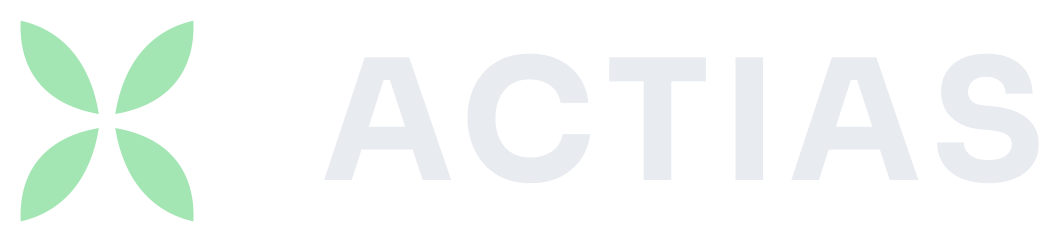
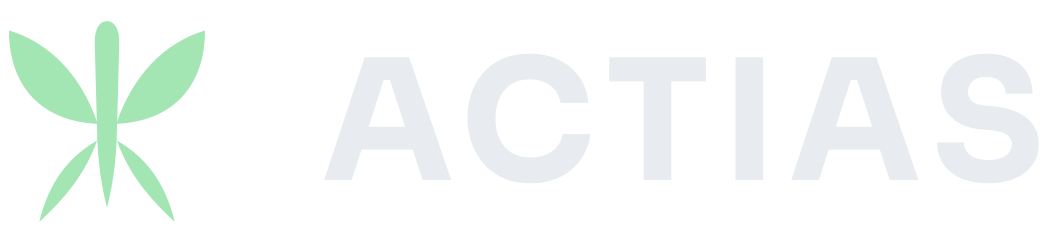
feat(web): the mark is a moth with a body
Four lobes around a centre of negative space is how a palmate leaf
is built, and in luna green it read as one. Wings hung on a body
fix the reading, and the hover beats them by data-wing name: the
old flutter selected by nth-child and outlived its own drawing.

Changed region(s): [[0.0, 0.0868, 0.2181, 0.9256]]

diff --git a/actias-web/src/ui/Mark.tsx b/actias-web/src/ui/Mark.tsx
@@ -1,21 +1,129 @@
 /**
- * The Actias mark: the luna moth reduced to its four wing lobes around a
- * cross of night, drawn as solid leaf-petals. One drawing at every size;
- * solid masses keep it legible where the old line glyph clogged.
+ * The Actias mark: a luna moth in flight posture, forewings swept up and
+ * out, hindwings drawn down into the trailing streamers the species is
+ * known for, all hung on a body.
+ *
+ * The body is the load-bearing part. The previous drawing was four lobes
+ * radiating from a centre of negative space, which is how a palmate leaf
+ * is built rather than an insect, and in luna green it read as cannabis
+ * before it read as a moth. Wings meeting a body instead of each other
+ * settles that, and the top-heavy mass (broad forewings, narrow tails)
+ * is a silhouette no leaf has.
  */
-export function Mark({ size = 20 }: { size?: number }) {
+export function Mark({
+  size = 20,
+  className,
+}: {
+  size?: number;
+  className?: string;
+}) {
   return (
     <svg
       width={size}
       height={size}
       viewBox="0 0 24 24"
       fill="var(--luna)"
+      className={className}
       aria-label="Actias"
     >
-      <path d="M11.3 11.4 C 10.6 7.0 8.2 4.2 4.6 3.4 C 4.4 7.6 6.6 10.6 11.3 11.4 Z" />
-      <path d="M12.7 11.4 C 13.4 7.0 15.8 4.2 19.4 3.4 C 19.6 7.6 17.4 10.6 12.7 11.4 Z" />
-      <path d="M11.3 12.6 C 6.6 13.4 4.4 16.4 4.6 20.6 C 8.2 19.8 10.6 17.0 11.3 12.6 Z" />
-      <path d="M12.7 12.6 C 17.4 13.4 19.6 16.4 19.4 20.6 C 15.8 19.8 13.4 17.0 12.7 12.6 Z" />
+      <path
+        data-wing="fore-l"
+        d="M11.2 12.4C9.8 8.2 7 5.4 3.6 4.4 3.6 9.2 6.4 12.2 11.2 12.4Z"
+      />
+      <path
+        data-wing="fore-r"
+        d="M12.8 12.4C14.2 8.2 17 5.4 20.4 4.4 20.4 9.2 17.6 12.2 12.8 12.4Z"
+      />
+      <path
+        data-wing="hind-l"
+        d="M11.3 13.4C10.4 16.2 8.8 18.4 6.2 20.8 7 17.4 8.8 15 11.6 13.6Z"
+      />
+      <path
+        data-wing="hind-r"
+        d="M12.7 13.4C13.6 16.2 15.2 18.4 17.8 20.8 17 17.4 15.2 15 12.4 13.6Z"
+      />
+      <path
+        data-wing="body"
+        d="M12 3.6c.7 0 1.1.8 1.05 2l-.2 7.4c-.05 2.6-.35 4.6-.85 6.6-.5-2-.8-4-.85-6.6l-.2-7.4c-.05-1.2.35-2 1.05-2Z"
+      />
+    </svg>
+  );
+}
+
+/**
+ * The alternative kept from the same exploration: the retired four-lobe
+ * drawing with a body threaded through it, head and antennae above the
+ * forewings, abdomen below the hindwings. It escapes the leaf reading by
+ * the same means [`Mark`] does while staying closer to what shipped
+ * before, and it has a third pair of parts to lag in motion, which the
+ * flight posture does not.
+ *
+ * Unused today and kept deliberately, not by accident: the choice
+ * between the two is recorded as taste rather than correctness, so the
+ * losing drawing stays reachable instead of living in a screenshot. Its
+ * antennae are the only stroked geometry in the set and clog below
+ * roughly 20 px, so a favicon built from this one drops them.
+ *
+ * The `data-wing` names match [`Mark`], so the brand hover animates this
+ * drawing too; its wing roots sit about a unit higher, which the shared
+ * pivots absorb at the sizes the mark is used at.
+ */
+export function SpineMark({
+  size = 20,
+  className,
+}: {
+  size?: number;
+  className?: string;
+}) {
+  return (
+    <svg
+      width={size}
+      height={size}
+      viewBox="0 0 24 24"
+      fill="var(--luna)"
+      className={className}
+      aria-label="Actias"
+    >
+      <path
+        data-wing="fore-l"
+        d="M11 11.6C10.3 7.8 8 5.4 4.8 5 4.6 8.6 6.6 11 11 11.6Z"
+      />
+      <path
+        data-wing="fore-r"
+        d="M13 11.6C13.7 7.8 16 5.4 19.2 5 19.4 8.6 17.4 11 13 11.6Z"
+      />
+      <path
+        data-wing="hind-l"
+        d="M11 12.8C6.8 13.4 4.8 15.8 5 19.2 8.2 18.6 10.4 16.4 11 12.8Z"
+      />
+      <path
+        data-wing="hind-r"
+        d="M13 12.8C17.2 13.4 19.2 15.8 19 19.2 15.8 18.6 13.6 16.4 13 12.8Z"
+      />
+      <path
+        data-wing="body"
+        d="M12 2.6c.75 0 1.2.9 1.15 2.2l-.2 8.4c-.05 3.2-.4 5.8-.95 8.4-.55-2.6-.9-5.2-.95-8.4l-.2-8.4C10.8 3.5 11.25 2.6 12 2.6Z"
+      />
+      {size >= 20 && (
+        <>
+          <path
+            data-wing="ant-l"
+            d="M11.4 3.2C10.2 2.2 9 1.9 7.9 1.9"
+            fill="none"
+            stroke="var(--luna)"
+            strokeWidth="1.1"
+            strokeLinecap="round"
+          />
+          <path
+            data-wing="ant-r"
+            d="M12.6 3.2C13.8 2.2 15 1.9 16.1 1.9"
+            fill="none"
+            stroke="var(--luna)"
+            strokeWidth="1.1"
+            strokeLinecap="round"
+          />
+        </>
+      )}
     </svg>
   );
 }

diff --git a/actias-web/src/ui/Shell.module.css b/actias-web/src/ui/Shell.module.css
@@ -642,50 +642,121 @@
   border-color: var(--luna);
 }
 
-/* The brand hover: the wings flutter once, petal by petal, and settle
- * the moment the pointer leaves. */
+/* The brand hover: one wingbeat. The forewings drive down and overshoot
+ * on the recovery, the hindwings follow 70ms behind at half the
+ * amplitude, and the body never moves. The lag is the whole of it: wings
+ * beating in rigid unison read as a graphic spinning, wings that trail
+ * read as mass moving through air, and a still body is what the eye
+ * measures the movement against.
+ *
+ * Parts are named by `data-wing` rather than counted by position, so
+ * reordering the paths or swapping the drawing cannot silently animate
+ * the wrong piece. That is exactly how the retired petal flutter
+ * outlived the drawing it was built for. Pivots are the wing roots, not
+ * the mark's centre; antennae exist only on the alternative mark. */
 .brand svg path {
-  transform-origin: 12px 12px;
   transform-box: view-box;
 }
 
-.brand:hover svg path:nth-child(1) {
-  animation: flutterUpLeft 0.55s ease-out;
+.brand svg [data-wing='fore-l'] {
+  transform-origin: 11.2px 12.4px;
 }
 
-.brand:hover svg path:nth-child(2) {
-  animation: flutterUpRight 0.55s ease-out 0.07s;
+.brand svg [data-wing='fore-r'] {
+  transform-origin: 12.8px 12.4px;
 }
 
-.brand:hover svg path:nth-child(3) {
-  animation: flutterDownLeft 0.55s ease-out 0.14s;
+.brand svg [data-wing='hind-l'] {
+  transform-origin: 11.3px 13.4px;
 }
 
-.brand:hover svg path:nth-child(4) {
-  animation: flutterDownRight 0.55s ease-out 0.21s;
+.brand svg [data-wing='hind-r'] {
+  transform-origin: 12.7px 13.4px;
 }
 
-@keyframes flutterUpLeft {
-  40% {
-    transform: translate(-1.2px, -1.2px) rotate(-7deg);
+.brand svg [data-wing='ant-l'] {
+  transform-origin: 11.4px 3.2px;
+}
+
+.brand svg [data-wing='ant-r'] {
+  transform-origin: 12.6px 3.2px;
+}
+
+.brand:hover svg [data-wing='fore-l'] {
+  animation: beatLeft 0.66s cubic-bezier(0.4, 0, 0.2, 1);
+}
+
+.brand:hover svg [data-wing='fore-r'] {
+  animation: beatRight 0.66s cubic-bezier(0.4, 0, 0.2, 1);
+}
+
+.brand:hover svg [data-wing='hind-l'] {
+  animation: swayLeft 0.72s cubic-bezier(0.4, 0, 0.2, 1) 0.07s;
+}
+
+.brand:hover svg [data-wing='hind-r'] {
+  animation: swayRight 0.72s cubic-bezier(0.4, 0, 0.2, 1) 0.07s;
+}
+
+.brand:hover svg [data-wing='ant-l'] {
+  animation: whipLeft 0.78s cubic-bezier(0.4, 0, 0.2, 1) 0.11s;
+}
+
+.brand:hover svg [data-wing='ant-r'] {
+  animation: whipRight 0.78s cubic-bezier(0.4, 0, 0.2, 1) 0.11s;
+}
+
+@keyframes beatLeft {
+  34% {
+    transform: rotate(25deg);
+  }
+  68% {
+    transform: rotate(-7deg);
   }
 }
 
-@keyframes flutterUpRight {
-  40% {
-    transform: translate(1.2px, -1.2px) rotate(7deg);
+@keyframes beatRight {
+  34% {
+    transform: rotate(-25deg);
+  }
+  68% {
+    transform: rotate(7deg);
   }
 }
 
-@keyframes flutterDownLeft {
+@keyframes swayLeft {
   40% {
-    transform: translate(-1.2px, 1.2px) rotate(7deg);
+    transform: rotate(11deg);
+  }
+  76% {
+    transform: rotate(-4deg);
   }
 }
 
-@keyframes flutterDownRight {
+@keyframes swayRight {
   40% {
-    transform: translate(1.2px, 1.2px) rotate(-7deg);
+    transform: rotate(-11deg);
+  }
+  76% {
+    transform: rotate(4deg);
+  }
+}
+
+@keyframes whipLeft {
+  38% {
+    transform: rotate(15deg);
+  }
+  72% {
+    transform: rotate(-6deg);
+  }
+}
+
+@keyframes whipRight {
+  38% {
+    transform: rotate(-15deg);
+  }
+  72% {
+    transform: rotate(6deg);
   }
 }
 

diff --git a/actias-web/src/components/home/HeroBackdrop.tsx b/actias-web/src/components/home/HeroBackdrop.tsx
@@ -1,20 +1,21 @@
+import { Mark } from '@/ui/Mark';
 import classes from './HeroBackdrop.module.css';
 
 /** Layered light behind the hero: rule grid, luna bloom, the mark as a
  * watermark inside it, viola counter glow, vignette. Decorative, so it
  * is inert to the pointer and the bloom stops breathing under reduced
- * motion. */
+ * motion.
+ *
+ * The watermark renders the mark component rather than its own copy of
+ * the geometry: a second copy is how the watermark kept the retired
+ * drawing after the mark changed. Size and opacity stay with the class,
+ * which outranks the element's own attributes. */
 export function HeroBackdrop() {
   return (
     <div className={classes.backdrop} aria-hidden>
       <div className={classes.grid} />
       <div className={classes.bloom} />
-      <svg className={classes.mark} viewBox="0 0 24 24" fill="currentColor">
-        <path d="M11.3 11.4 C 10.6 7.0 8.2 4.2 4.6 3.4 C 4.4 7.6 6.6 10.6 11.3 11.4 Z" />
-        <path d="M12.7 11.4 C 13.4 7.0 15.8 4.2 19.4 3.4 C 19.6 7.6 17.4 10.6 12.7 11.4 Z" />
-        <path d="M11.3 12.6 C 6.6 13.4 4.4 16.4 4.6 20.6 C 8.2 19.8 10.6 17.0 11.3 12.6 Z" />
-        <path d="M12.7 12.6 C 17.4 13.4 19.6 16.4 19.4 20.6 C 15.8 19.8 13.4 17.0 12.7 12.6 Z" />
-      </svg>
+      <Mark className={classes.mark} />
       <div className={classes.counter} />
       <div className={classes.vignette} />
     </div>
